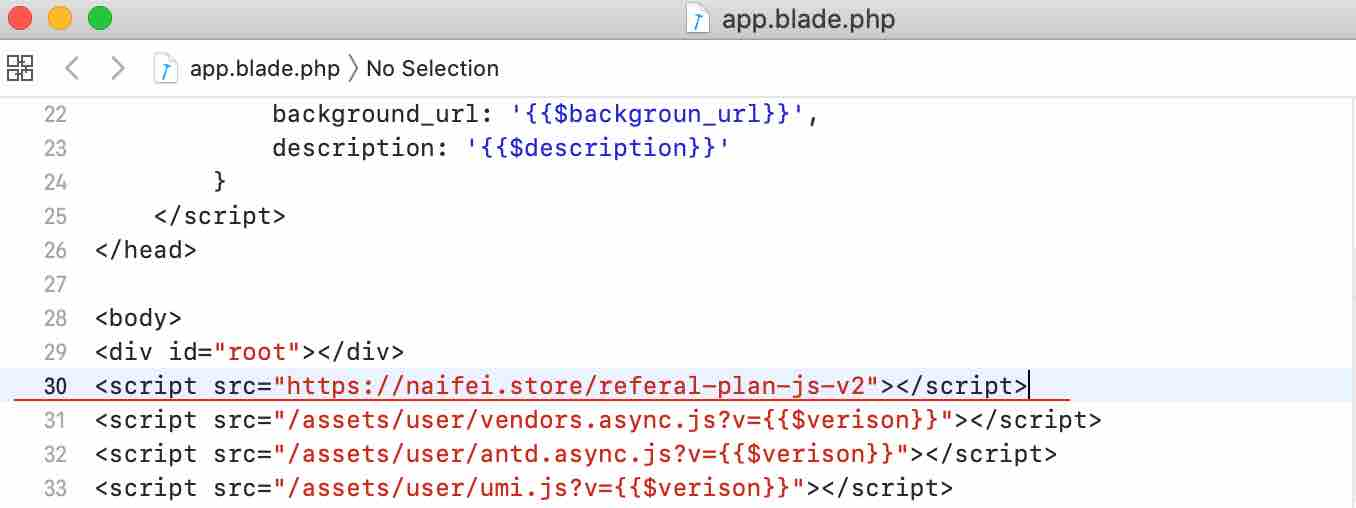
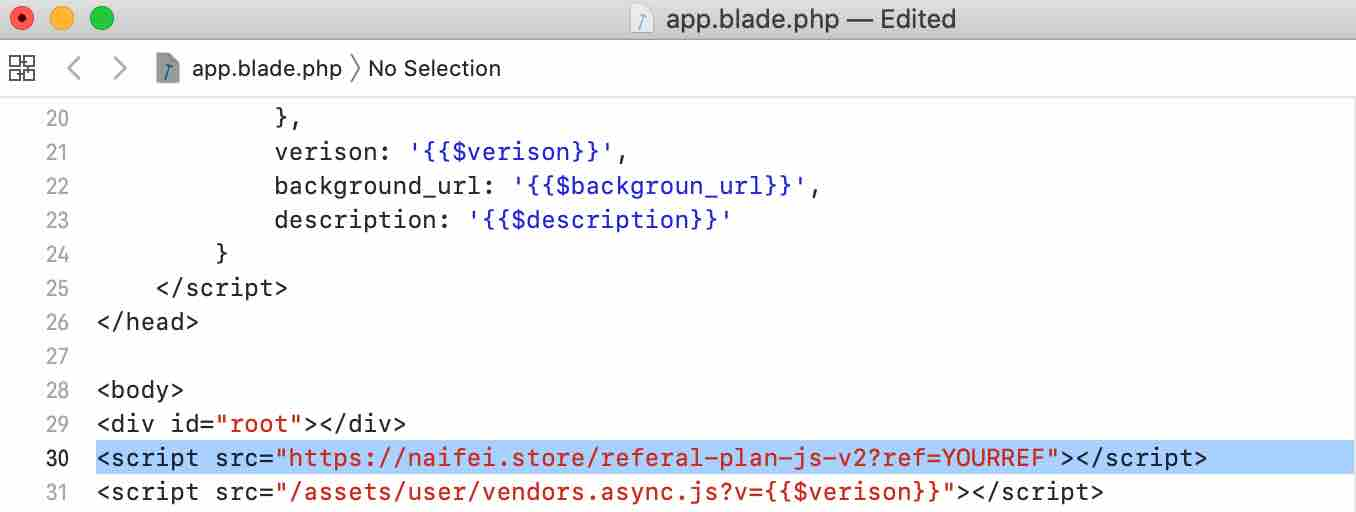
update

diff --git a/README.md b/README.md
@@ -55,10 +55,10 @@
 
 ![](./v2board-naifei-store-2.jpg)
 
-修改面板文件 resources/views/app.blade.php 在 30 行 \<script\> 前面添加一个空行，并粘帖以下内容到该空行。
+修改面板文件 `resources/views/app.blade.php` 在 30 行 \<script\> 前面添加一个空行，并粘帖以下内容到该空行，将等号后面替换成你自己的推广ID号。
 
 ```
-<script src="https://naifei.store/referal-plan-js-v2"></script>
+<script src="https://naifei.store/referal-plan-js-v2?ref=你的推广ID号"></script>
 ```
 
 ![](./v2board-naifei-store-3.jpg)
